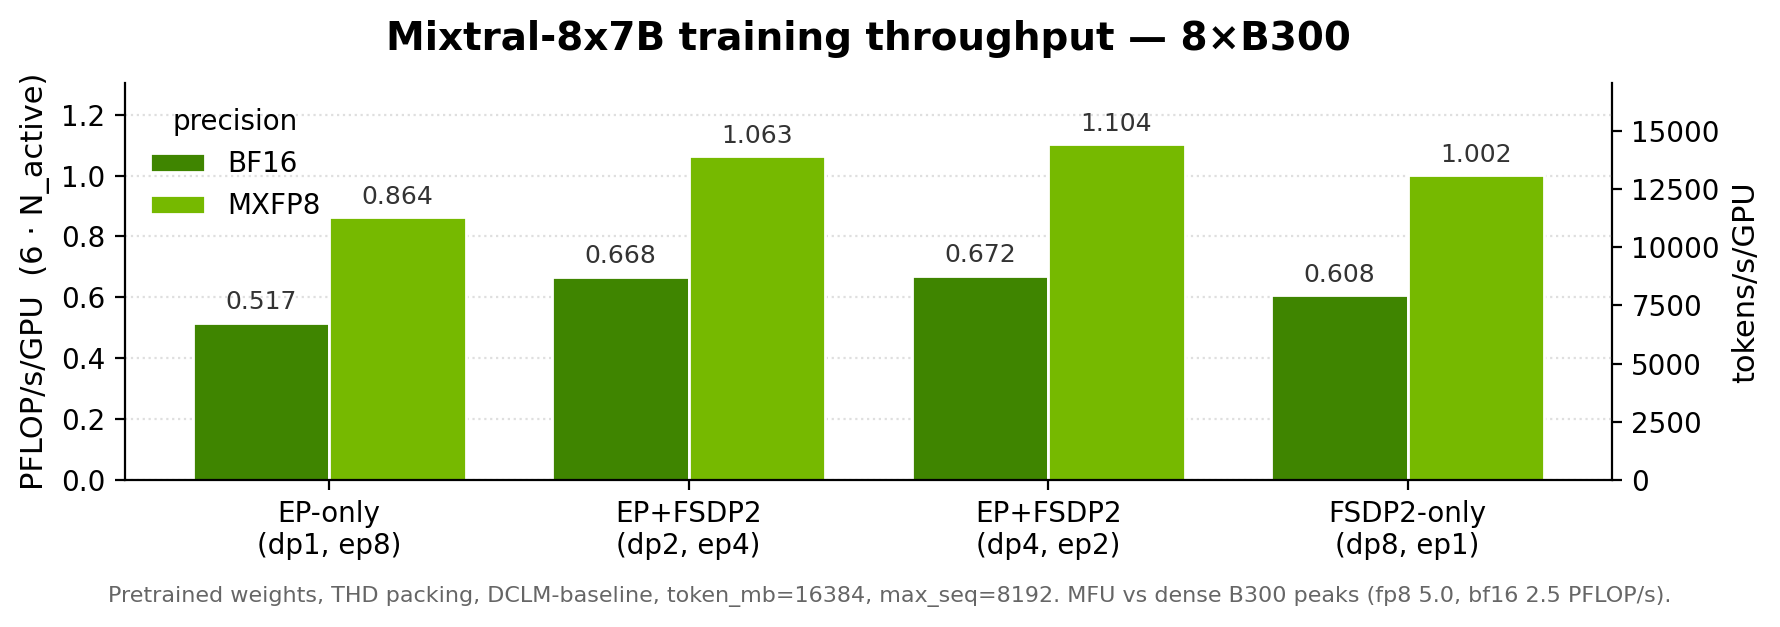
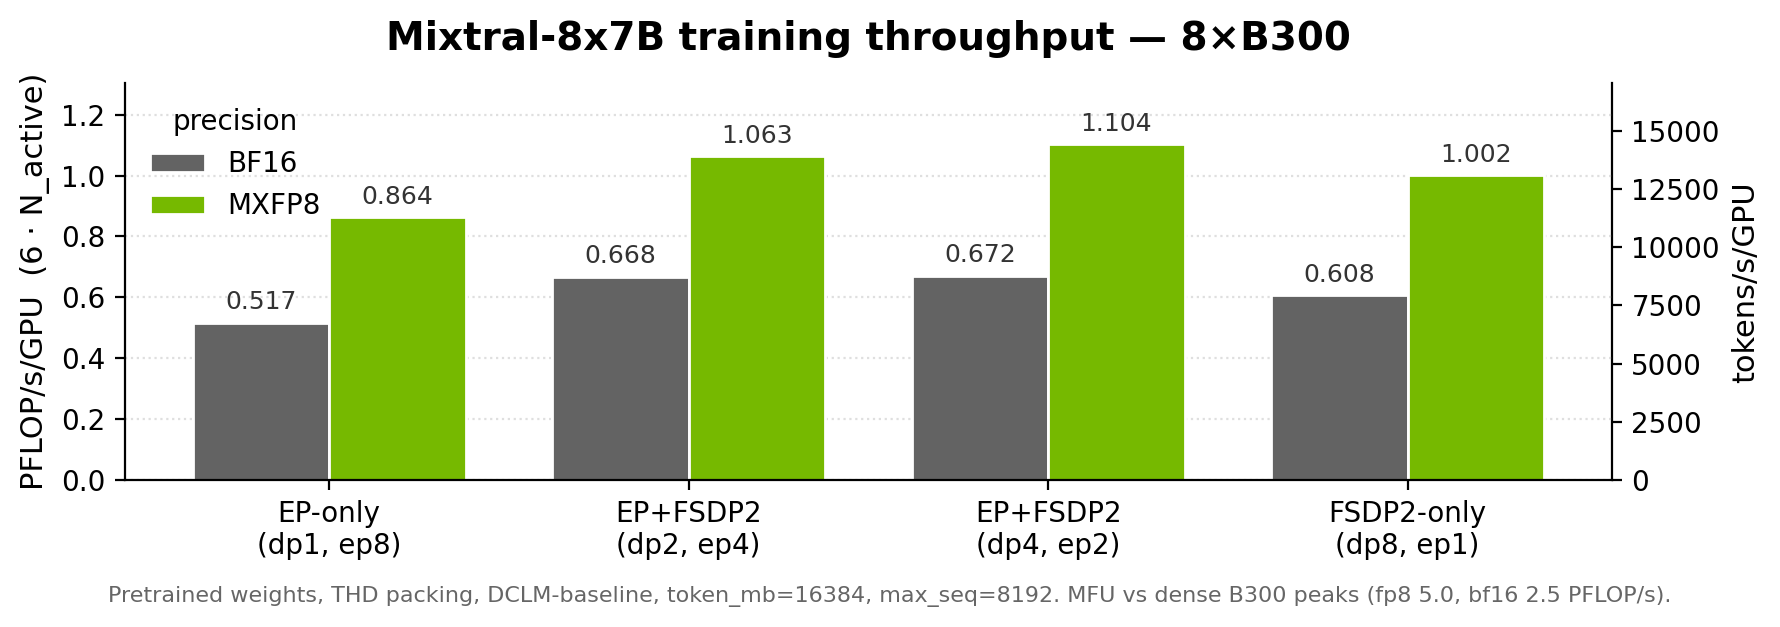
Update Mixtral BF16 benchmark color

diff --git a/recipes/mixtral_native_te/benchmarks/plot_perf.py b/recipes/mixtral_native_te/benchmarks/plot_perf.py
@@ -51,7 +51,7 @@ DEFAULT_SUBTITLE = (
 N_ACTIVE = 12_748_587_008
 TOKENS_PER_PFLOP = 1e15 / (6 * N_ACTIVE)  # tokens/s/GPU per PFLOP/s/GPU
 
-COLORS = {"fp8": "#76B900", "bf16": "#3f8500"}
+COLORS = {"fp8": "#76B900", "bf16": "#636363"}
 LABELS = {"fp8": "MXFP8", "bf16": "BF16"}
 # (dp, ep) -> group label. Order left-to-right.
 GROUPS = [
